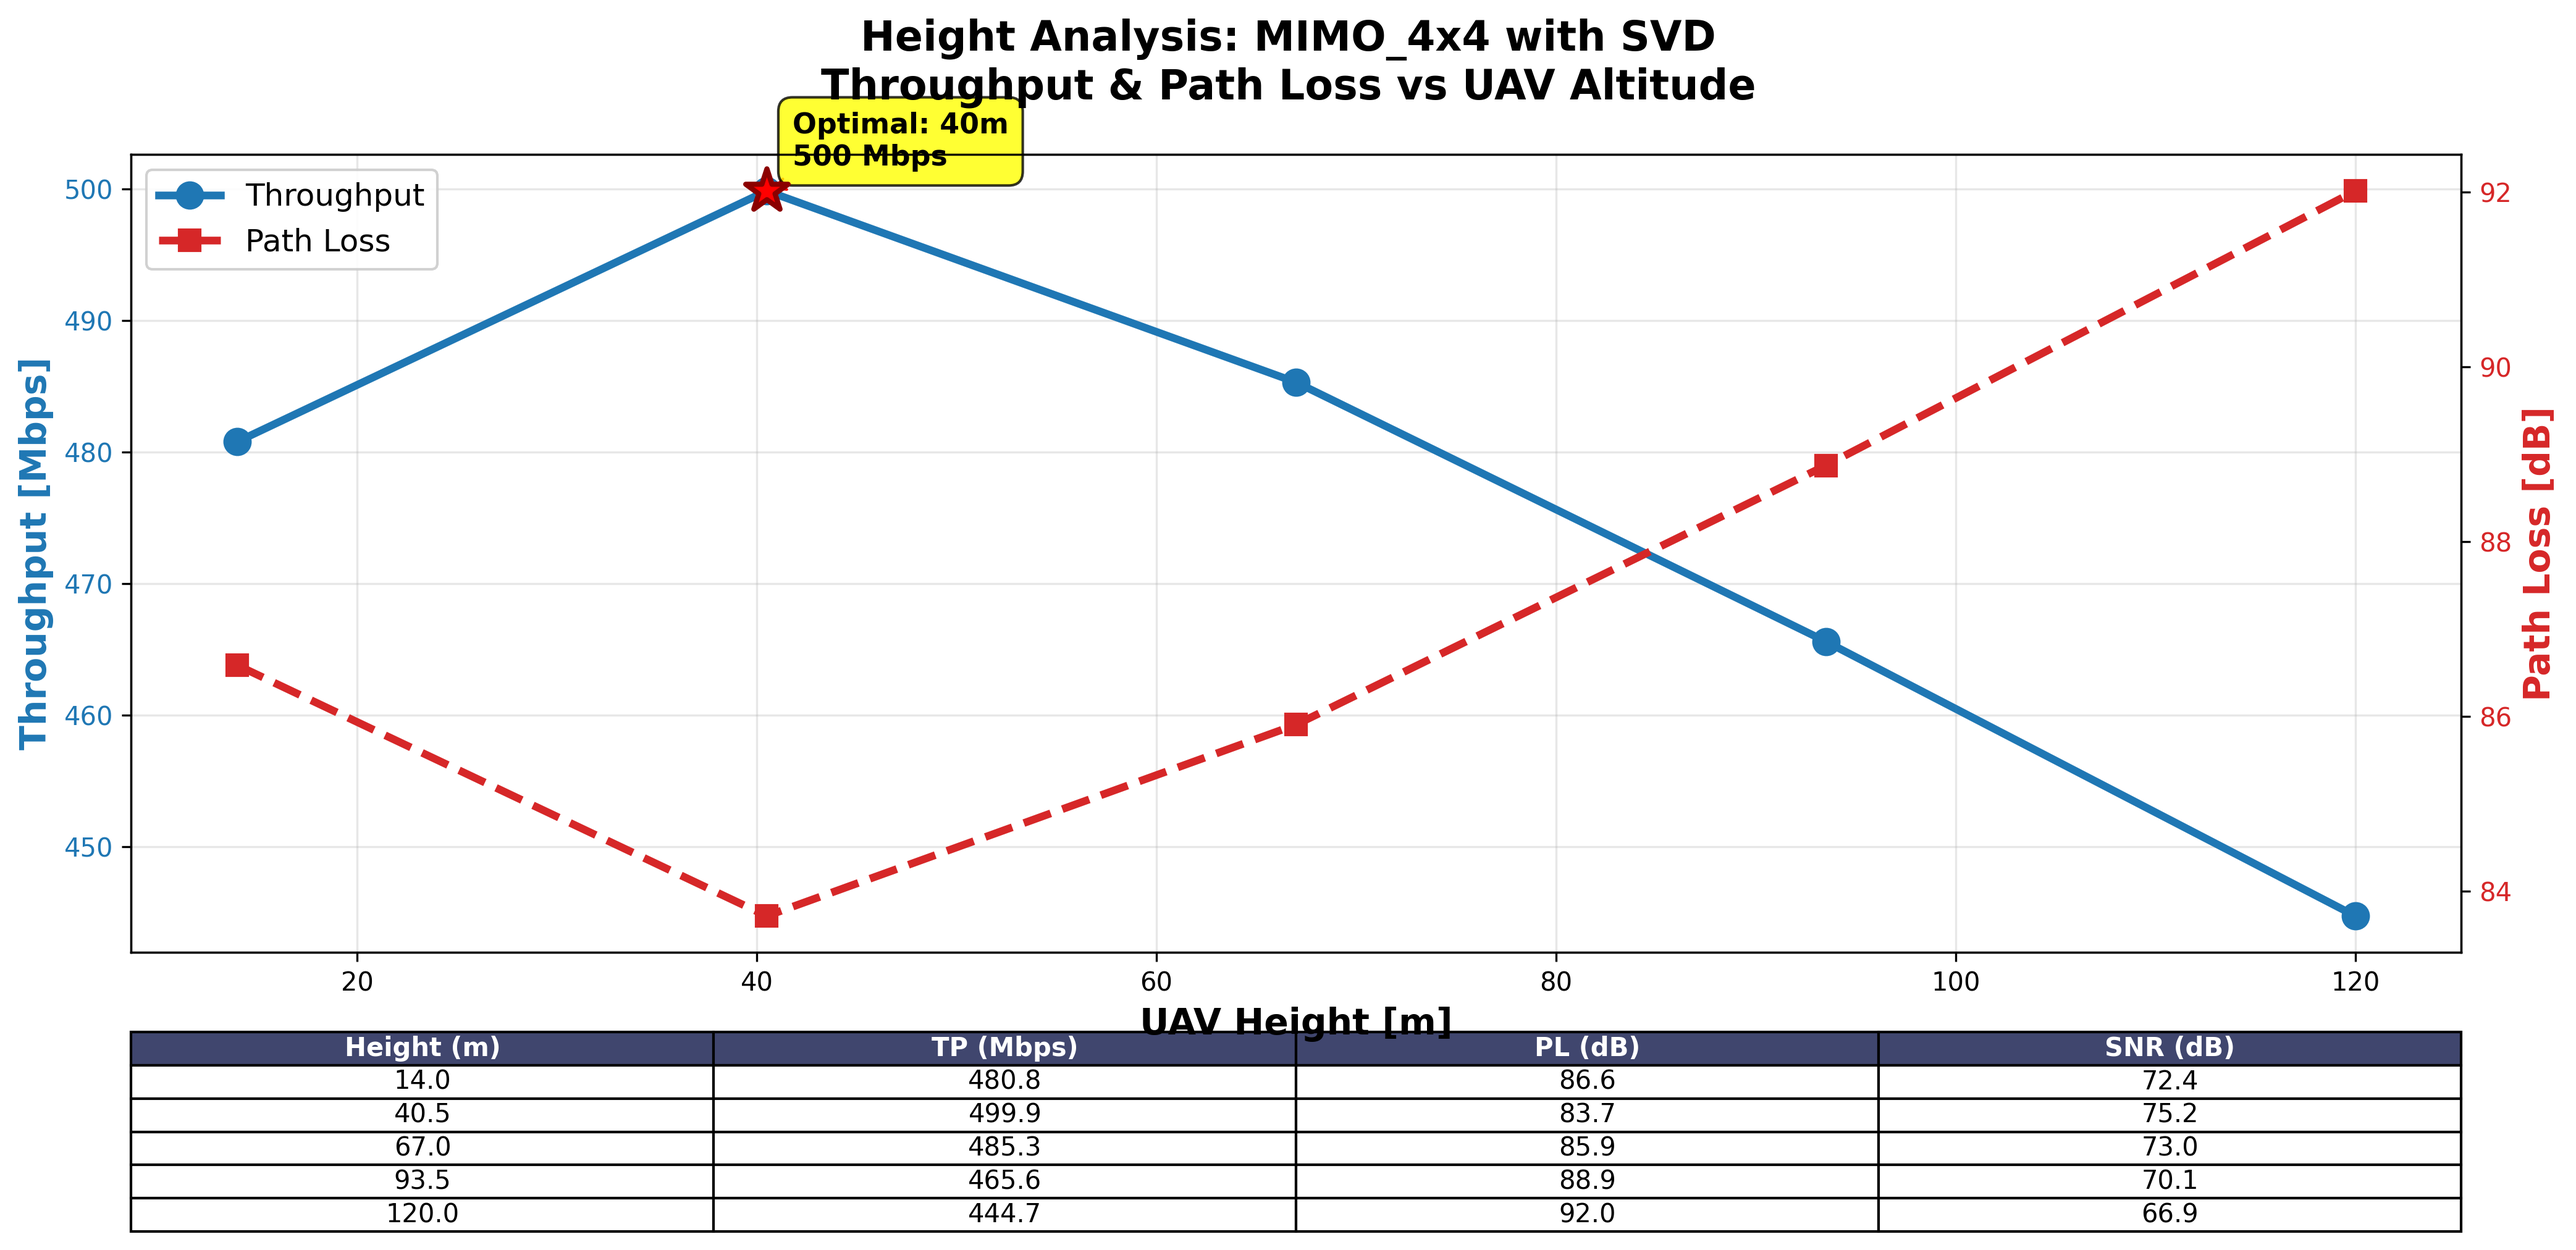
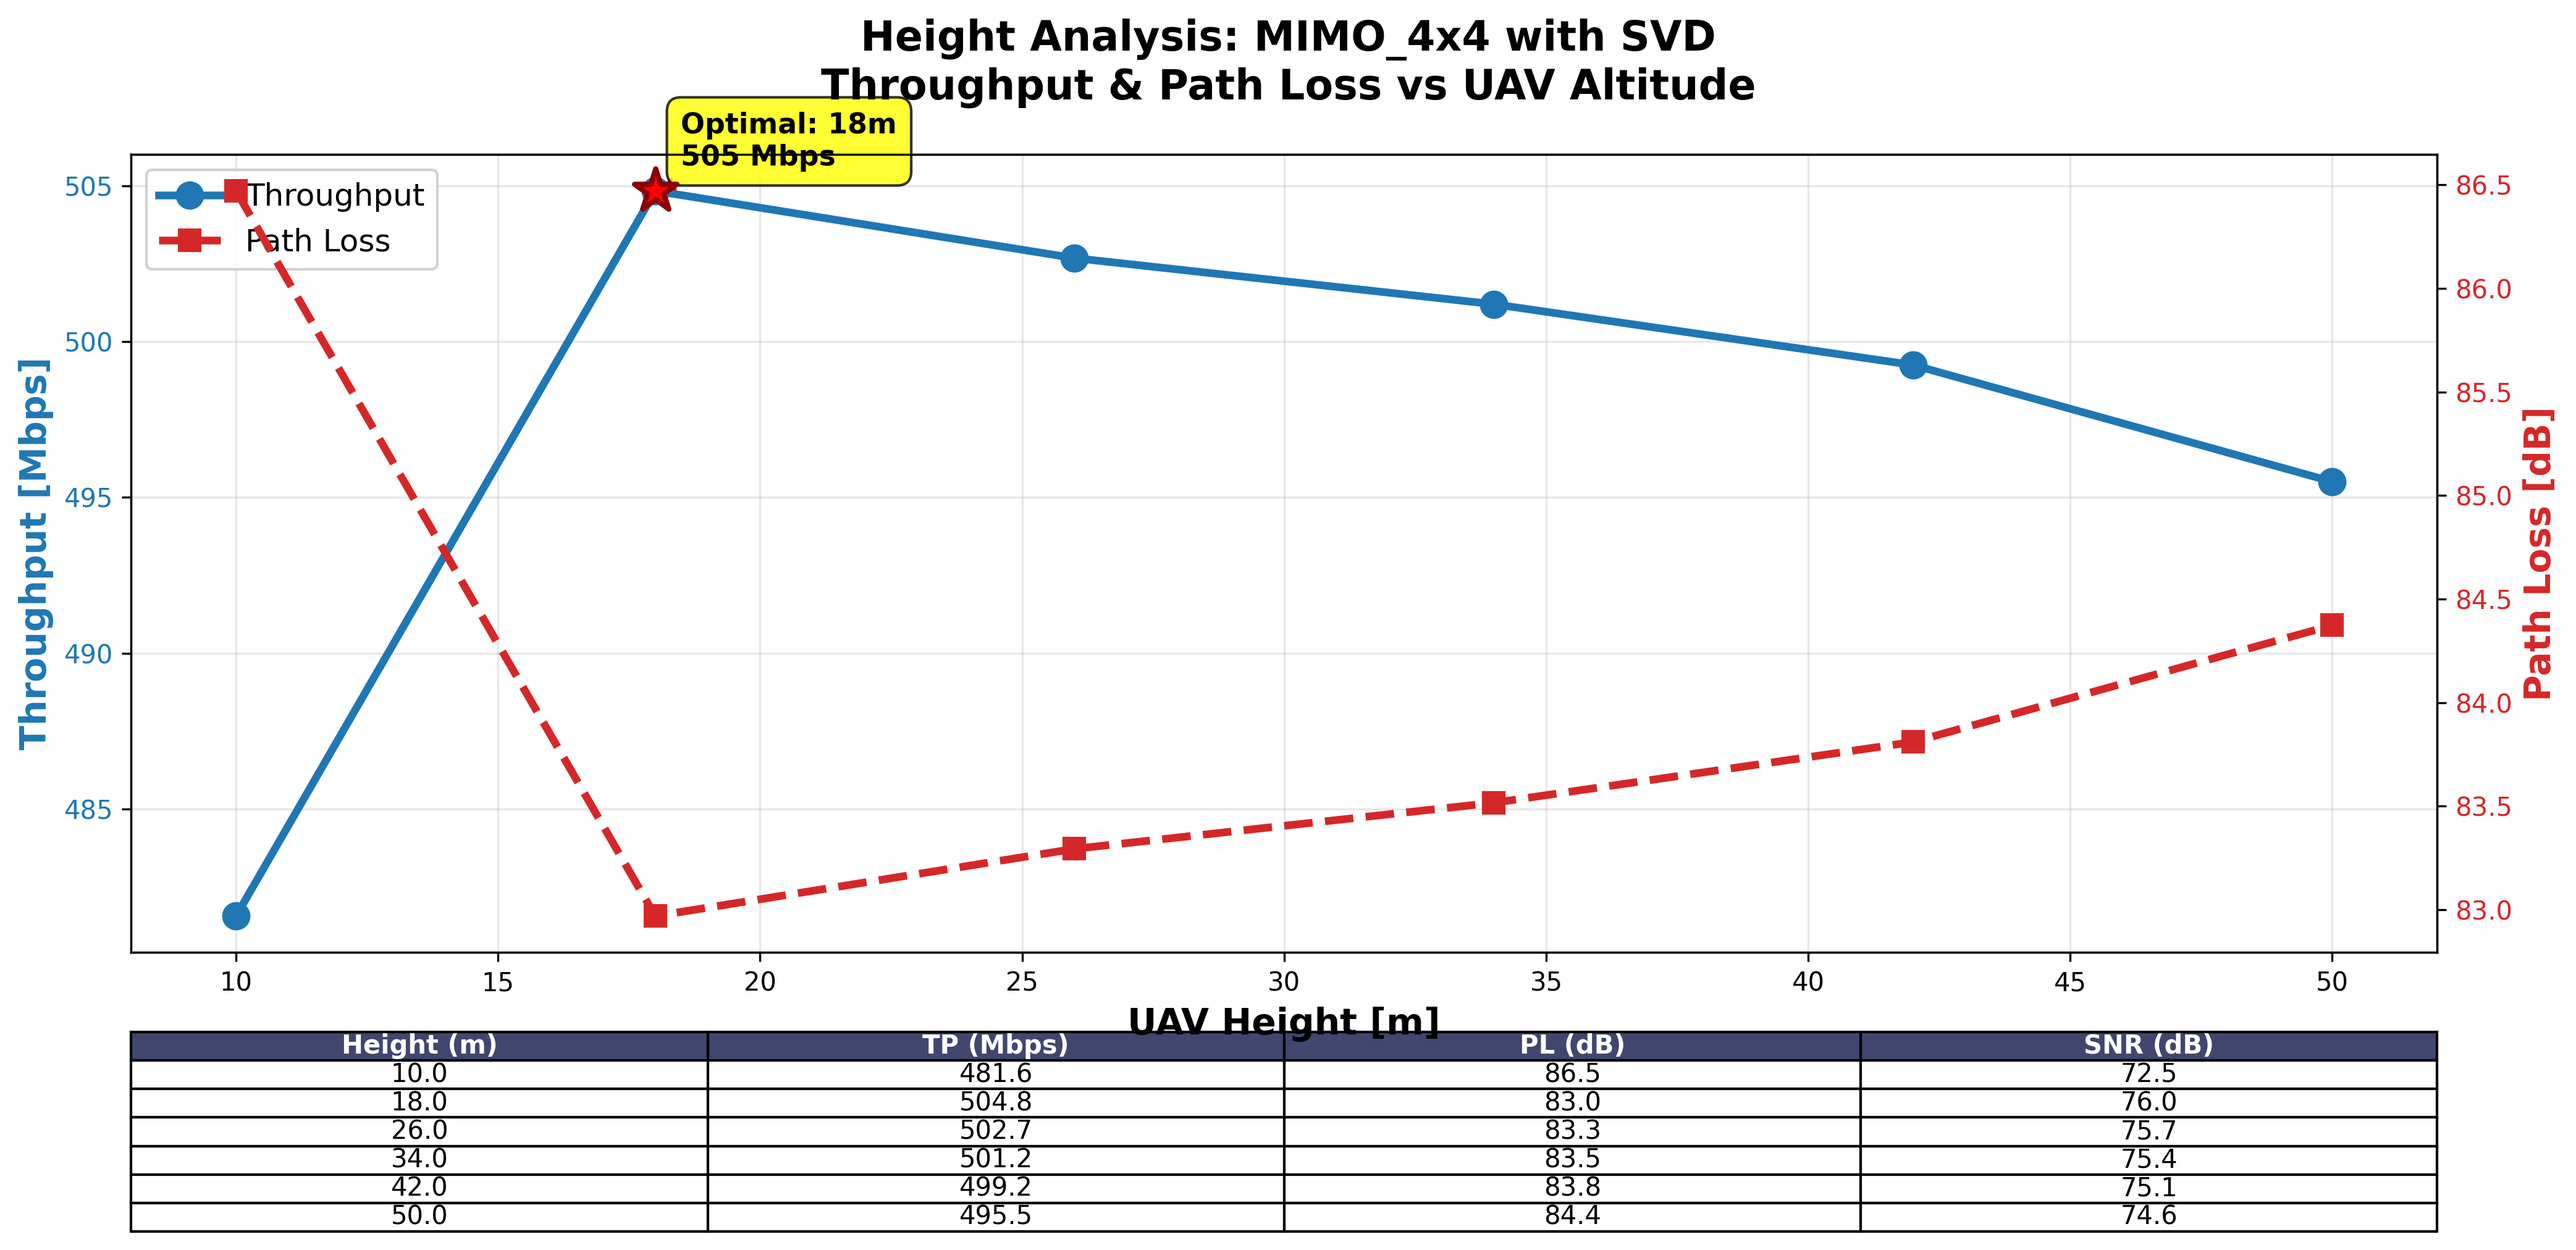
Fotos

diff --git a/final/testsrt/height.py b/final/testsrt/height.py
@@ -756,9 +756,9 @@ if __name__ == "__main__":
     # Configuration
     MIMO_CONFIG = "MIMO_4x4"
     BEAMFORMING = "SVD"  # or "ZF"
-    NUM_HEIGHTS = 5
-    HEIGHT_MIN = 14
-    HEIGHT_MAX = 120  # Reduced from 150 to avoid GPU memory exhaustion at extreme heights
+    NUM_HEIGHTS = 6
+    HEIGHT_MIN = 10
+    HEIGHT_MAX = 50  # Reduced from 150 to avoid GPU memory exhaustion at extreme heights
     
     print(f"\n{'#'*70}")
     print(f"# 5G NR MIMO UAV HEIGHT ANALYSIS")

diff --git a/final/testsrt/interference.py b/final/testsrt/interference.py
@@ -49,7 +49,7 @@ class RF_Config:
     
     print(f"\n[RF_Config] NUM_RBS = {NUM_RBS}, NUM_SUBCARRIERS = {NUM_SUBCARRIERS}")
 
-    USERS_SEED = 67                   # Seed for reproducible user placement
+    USERS_SEED = 45                   # Seed for reproducible user placement
 
 
 
